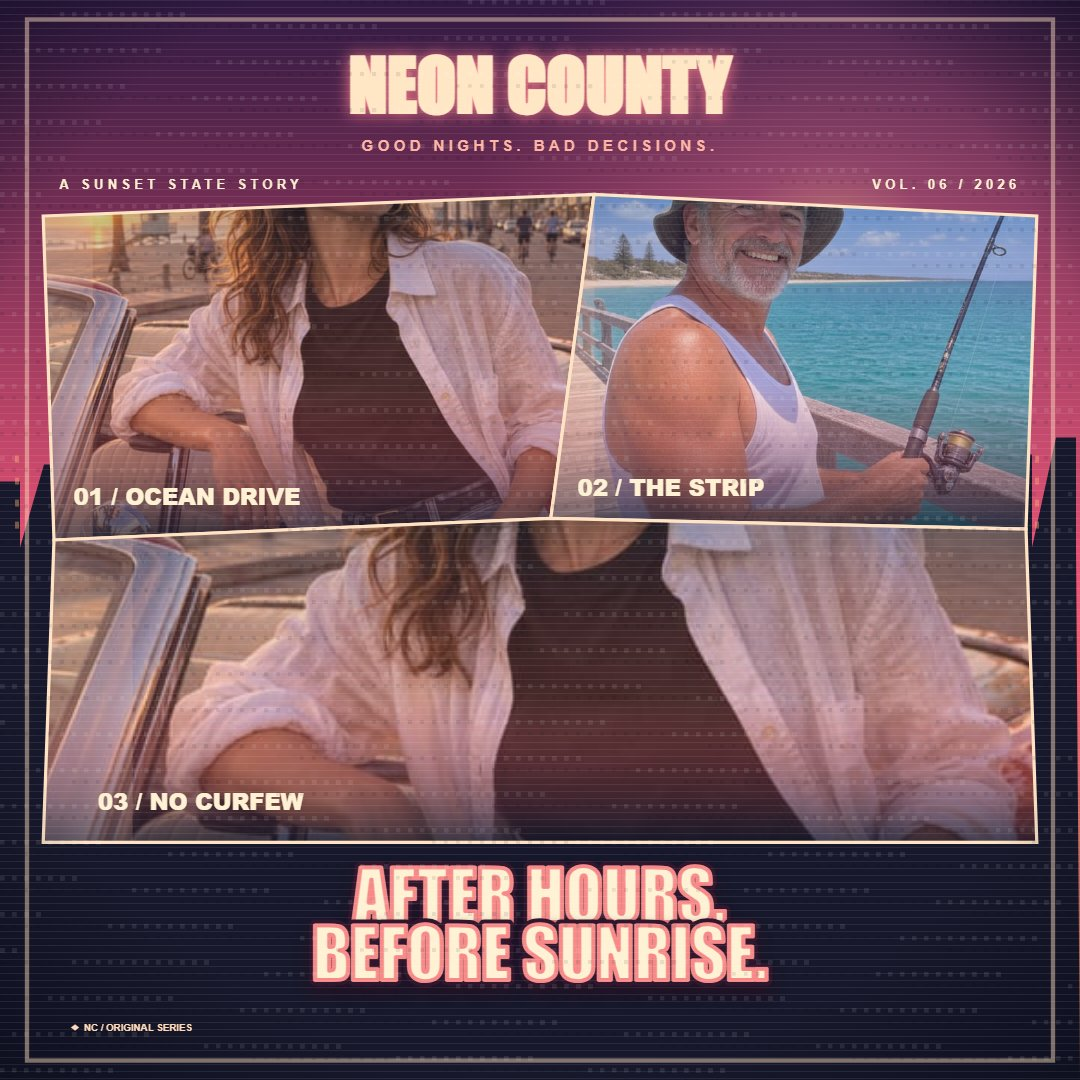
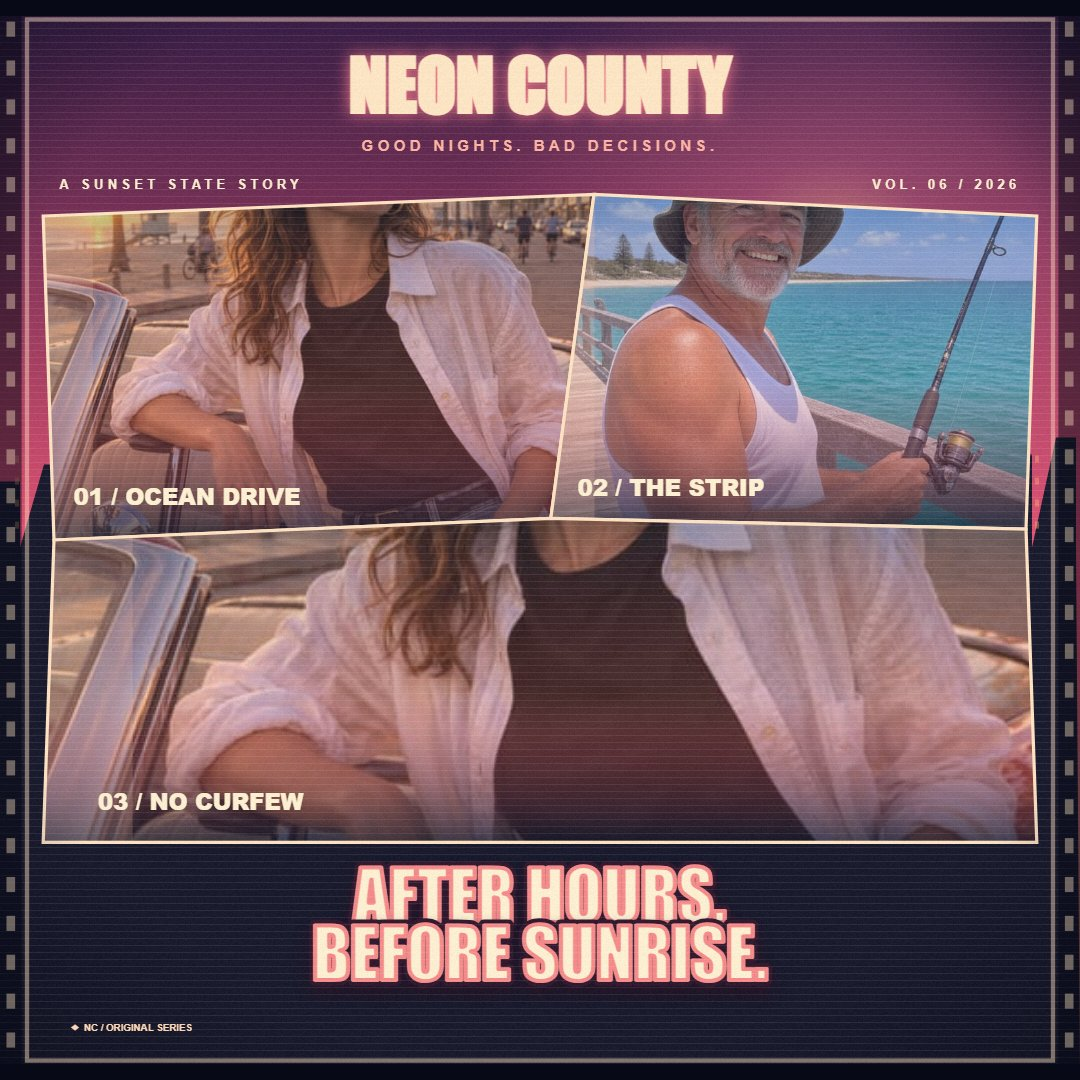
Refine the poster grain, add the tape edge and keyboard shortcuts, and refresh the screenshots

Changed region(s): [[0.0, 0.0, 1.0, 1.0]]

diff --git a/app/src/effects.js b/app/src/effects.js
@@ -13,18 +13,26 @@ export function drawVignette(context, width, height, strength) {
   context.restore();
 }
 
+let grainTile;
+
 export function drawGrain(context, width, height, strength) {
   context.save();
   context.globalAlpha = 0.09 * Math.max(0, strength);
-  for (let y = 0; y < height; y += 12) {
-    for (let x = 0; x < width; x += 12) {
-      const noise = ((x * 17 + y * 31) % 101) / 101;
-      if (noise > 0.52) {
-        context.fillStyle = noise > 0.77 ? '#fff' : '#100c23';
-        context.fillRect(x, y, 2 + noise * 3, 2 + noise * 3);
-      }
+  if (!grainTile) {
+    grainTile = document.createElement('canvas');
+    grainTile.width = grainTile.height = 96;
+    const tile = grainTile.getContext('2d');
+    const pixels = tile.createImageData(96, 96);
+    let seed = 1977;
+    for (let i = 0; i < pixels.data.length; i += 4) {
+      seed = (Math.imul(seed, 1664525) + 1013904223) >>> 0;
+      const value = Math.max(0, Math.min(255, ((seed >>> 24) - 128) * 1.2 + 128));
+      pixels.data.set([value, value, value, 80], i);
     }
+    tile.putImageData(pixels, 0, 0);
   }
+  context.fillStyle = context.createPattern(grainTile, 'repeat');
+  context.fillRect(0, 0, width, height);
   context.restore();
 }
 
@@ -45,5 +53,27 @@ export function drawLightLeak(ctx, w, h, strength, colour) {
   glow.addColorStop(1, 'transparent');
   ctx.fillStyle = glow;
   ctx.fillRect(0, 0, w, h);
+  ctx.restore();
+}
+
+export function drawLetterbox(ctx, w, h, heightRatio) {
+  ctx.save();
+  const band = Math.round(h * Math.max(0, Math.min(0.5, heightRatio)));
+  ctx.fillStyle = '#080917';
+  ctx.fillRect(0, 0, w, band);
+  ctx.fillRect(0, h - band, w, band);
+  ctx.restore();
+}
+
+export function drawTapeEdge(ctx, w, h, height) {
+  ctx.save();
+  ctx.fillStyle = '#08091788';
+  ctx.fillRect(0, 0, height, h);
+  ctx.fillRect(w - height, 0, height, h);
+  ctx.fillStyle = '#ffe7c566';
+  for (let y = height; y < h - height; y += height * 1.8) {
+    ctx.fillRect(height * .3, y, height * .4, height * .7);
+    ctx.fillRect(w - height * .7, y, height * .4, height * .7);
+  }
   ctx.restore();
 }

diff --git a/app/src/app.js b/app/src/app.js
@@ -150,6 +150,36 @@ document.querySelectorAll('[data-size]').forEach((button) => {
   };
 });
 
+const shortcuts = { colour: 's', export: 'e' };
+$('#shortcut-hint').textContent = [
+  ...Array.from(document.querySelectorAll('[data-shortcut]'), (button) =>
+    `${button.dataset.shortcut} ${button.textContent.split(' \u00b7 ')[0]}`),
+  `${shortcuts.colour.toUpperCase()} Colour treatment`,
+  `${shortcuts.export.toUpperCase()} PNG in new tab`,
+].join(' \u00b7 ');
+
+document.addEventListener('keydown', (event) => {
+  if (event.ctrlKey || event.metaKey || event.altKey || event.repeat ||
+      event.target.closest('input, textarea, select, [contenteditable="true"]')) return;
+  const key = event.key.toLowerCase();
+  const size = /^[123]$/.test(key) && document.querySelector(`[data-shortcut="${key}"]`);
+  if (size) size.click();
+  else if (key === shortcuts.colour) {
+    const grades = ['sunset', 'neon', 'gold'];
+    $('#grade').value = grades[(grades.indexOf(state.grade) + 1) % grades.length];
+    $('#grade').dispatchEvent(new Event('input'));
+  } else if (key === shortcuts.export) {
+    const tab = window.open('about:blank', '_blank');
+    if (tab) exportCover(false).then((url) => {
+      const image = tab.document.createElement('img');
+      image.src = url;
+      image.style.maxWidth = '100%';
+      tab.document.body.append(image);
+    });
+  } else return;
+  event.preventDefault();
+});
+
 let dragPoint = null;
 canvas.onpointerdown = (event) => {
   const bounds = canvas.getBoundingClientRect();

diff --git a/main.ts b/main.ts
@@ -1,8 +1,11 @@
-// Node 22 entrypoint for the offline Neon County cover studio. It copies the static app/ tree and its
-// finished poster screenshots into the submission directory, then writes the make.fun dossier summary.
+// Neon County cover studio: square 1080x1080, portrait 1080x1350, landscape 1920x1080.
+// Poster art is drawn by the app canvas renderer in the browser.
+// Hands in app/, screenshots/, and dossier.json for the Neon County cover studio.
+// Vendored buildDossier packages the dossier; exports: square 1080x1080, portrait 1080x1350, landscape 1920x1080.
 // Run `node serve.ts --port 8080` to preview the editor locally before submission.
 // Outside the grader container, MAKEFUN_OUTPUT_DIR may point to a local output directory.
 
+// The dossier carries the editor and three exported-cover screenshots.
 import { cpSync, existsSync, mkdirSync, writeFileSync } from 'node:fs';
 import { join } from 'node:path';
 import { fileURLToPath } from 'node:url';

diff --git a/app/index.html b/app/index.html
@@ -30,10 +30,11 @@
 
       <section class="stage">
         <nav aria-label="Export size">
-          <button data-size="1080,1080">Square · 1:1</button>
-          <button data-size="1080,1350">Portrait · 4:5</button>
-          <button data-size="1920,1080">Wide · 16:9</button>
+          <button data-size="1080,1080" data-shortcut="1">Square · 1:1</button>
+          <button data-size="1080,1350" data-shortcut="2">Portrait · 4:5</button>
+          <button data-size="1920,1080" data-shortcut="3">Wide · 16:9</button>
         </nav>
+        <p class="shortcut-hint" id="shortcut-hint">1 Square · 2 Portrait · 3 Wide · S Colour treatment</p>
         <div class="canvas-wrap"><canvas id="poster"></canvas></div>
         <footer>
           <span>● LIVE PREVIEW</span>

diff --git a/app/src/cover-art.js b/app/src/cover-art.js
@@ -1,4 +1,4 @@
-import { drawGrain, drawScanlines, drawVignette, drawLightLeak } from './effects.js';
+import { drawGrain, drawScanlines, drawVignette, drawLightLeak, drawLetterbox, drawTapeEdge } from './effects.js';
 
 const layouts = {
   1: [[ [0.04, 0.20], [0.96, 0.16], [0.94, 0.78], [0.06, 0.76] ]],
@@ -219,5 +219,7 @@ export function render(canvas, state) {
   drawGrain(context, width, height, state.grain ?? 1);
   drawScanlines(context, width, height, state.scanlines ?? 1, "#fff");
   drawLightLeak(context, width, height, state.lightLeak ?? 0, "#ffb476");
+  drawLetterbox(context, width, height, 0.015);
+  drawTapeEdge(context, width, height, width * 0.02);
 }
 

diff --git a/app/style.css b/app/style.css
@@ -240,3 +240,5 @@ body.cover > script {
 .effects label { margin: 12px 0; }
 .effects input { margin-top: 6px; }
 .effects p { font-size: 11px; }
+
+.shortcut-hint { margin: 8px 0; color: #b5afc1; font-size: 10px; text-transform: uppercase; letter-spacing: .12em; text-align: center; }

diff --git a/README.md b/README.md
@@ -18,13 +18,15 @@ Then open http://localhost:8080. The first visit loads two bundled sample scenes
 
 Neon County composes a poster from up to four hard-cut scenes. Drag inside the preview to pan, use the zoom slider or scroll wheel to zoom, and choose Fit / fill to switch the crop. Reorder scenes with the arrow buttons, remove them with ×, or add a scene. Caption, strapline, colour grade, and framing update the live canvas as you work.
 
+Fine deterministic grain and a subtle sprocket-hole tape edge finish the cover.
+
 ## Export sizes
 
 Choose square (1080 × 1080), portrait (1080 × 1350), or landscape (1920 × 1080), then select Export PNG. The downloaded file is named for its dimensions, and a copy of the exported image appears in the editor.
 
 ## Keyboard shortcuts
 
-There are no custom shortcuts. Use Tab and Shift+Tab to move between controls, Enter or Space to activate buttons, and the arrow keys to adjust Zoom. The mouse wheel over the preview also zooms the selected scene.
+Press 1 for square (1080 × 1080), 2 for portrait (1080 × 1350), or 3 for landscape (1920 × 1080). Press E to open the exported PNG in a new tab for dragging out. Press S to cycle sunset, neon, and gold colour treatments. Use Tab and Shift+Tab to move between controls, Enter or Space to activate buttons, and the arrow keys to adjust Zoom. The mouse wheel over the preview also zooms the selected scene.
 
 ## Privacy
 
